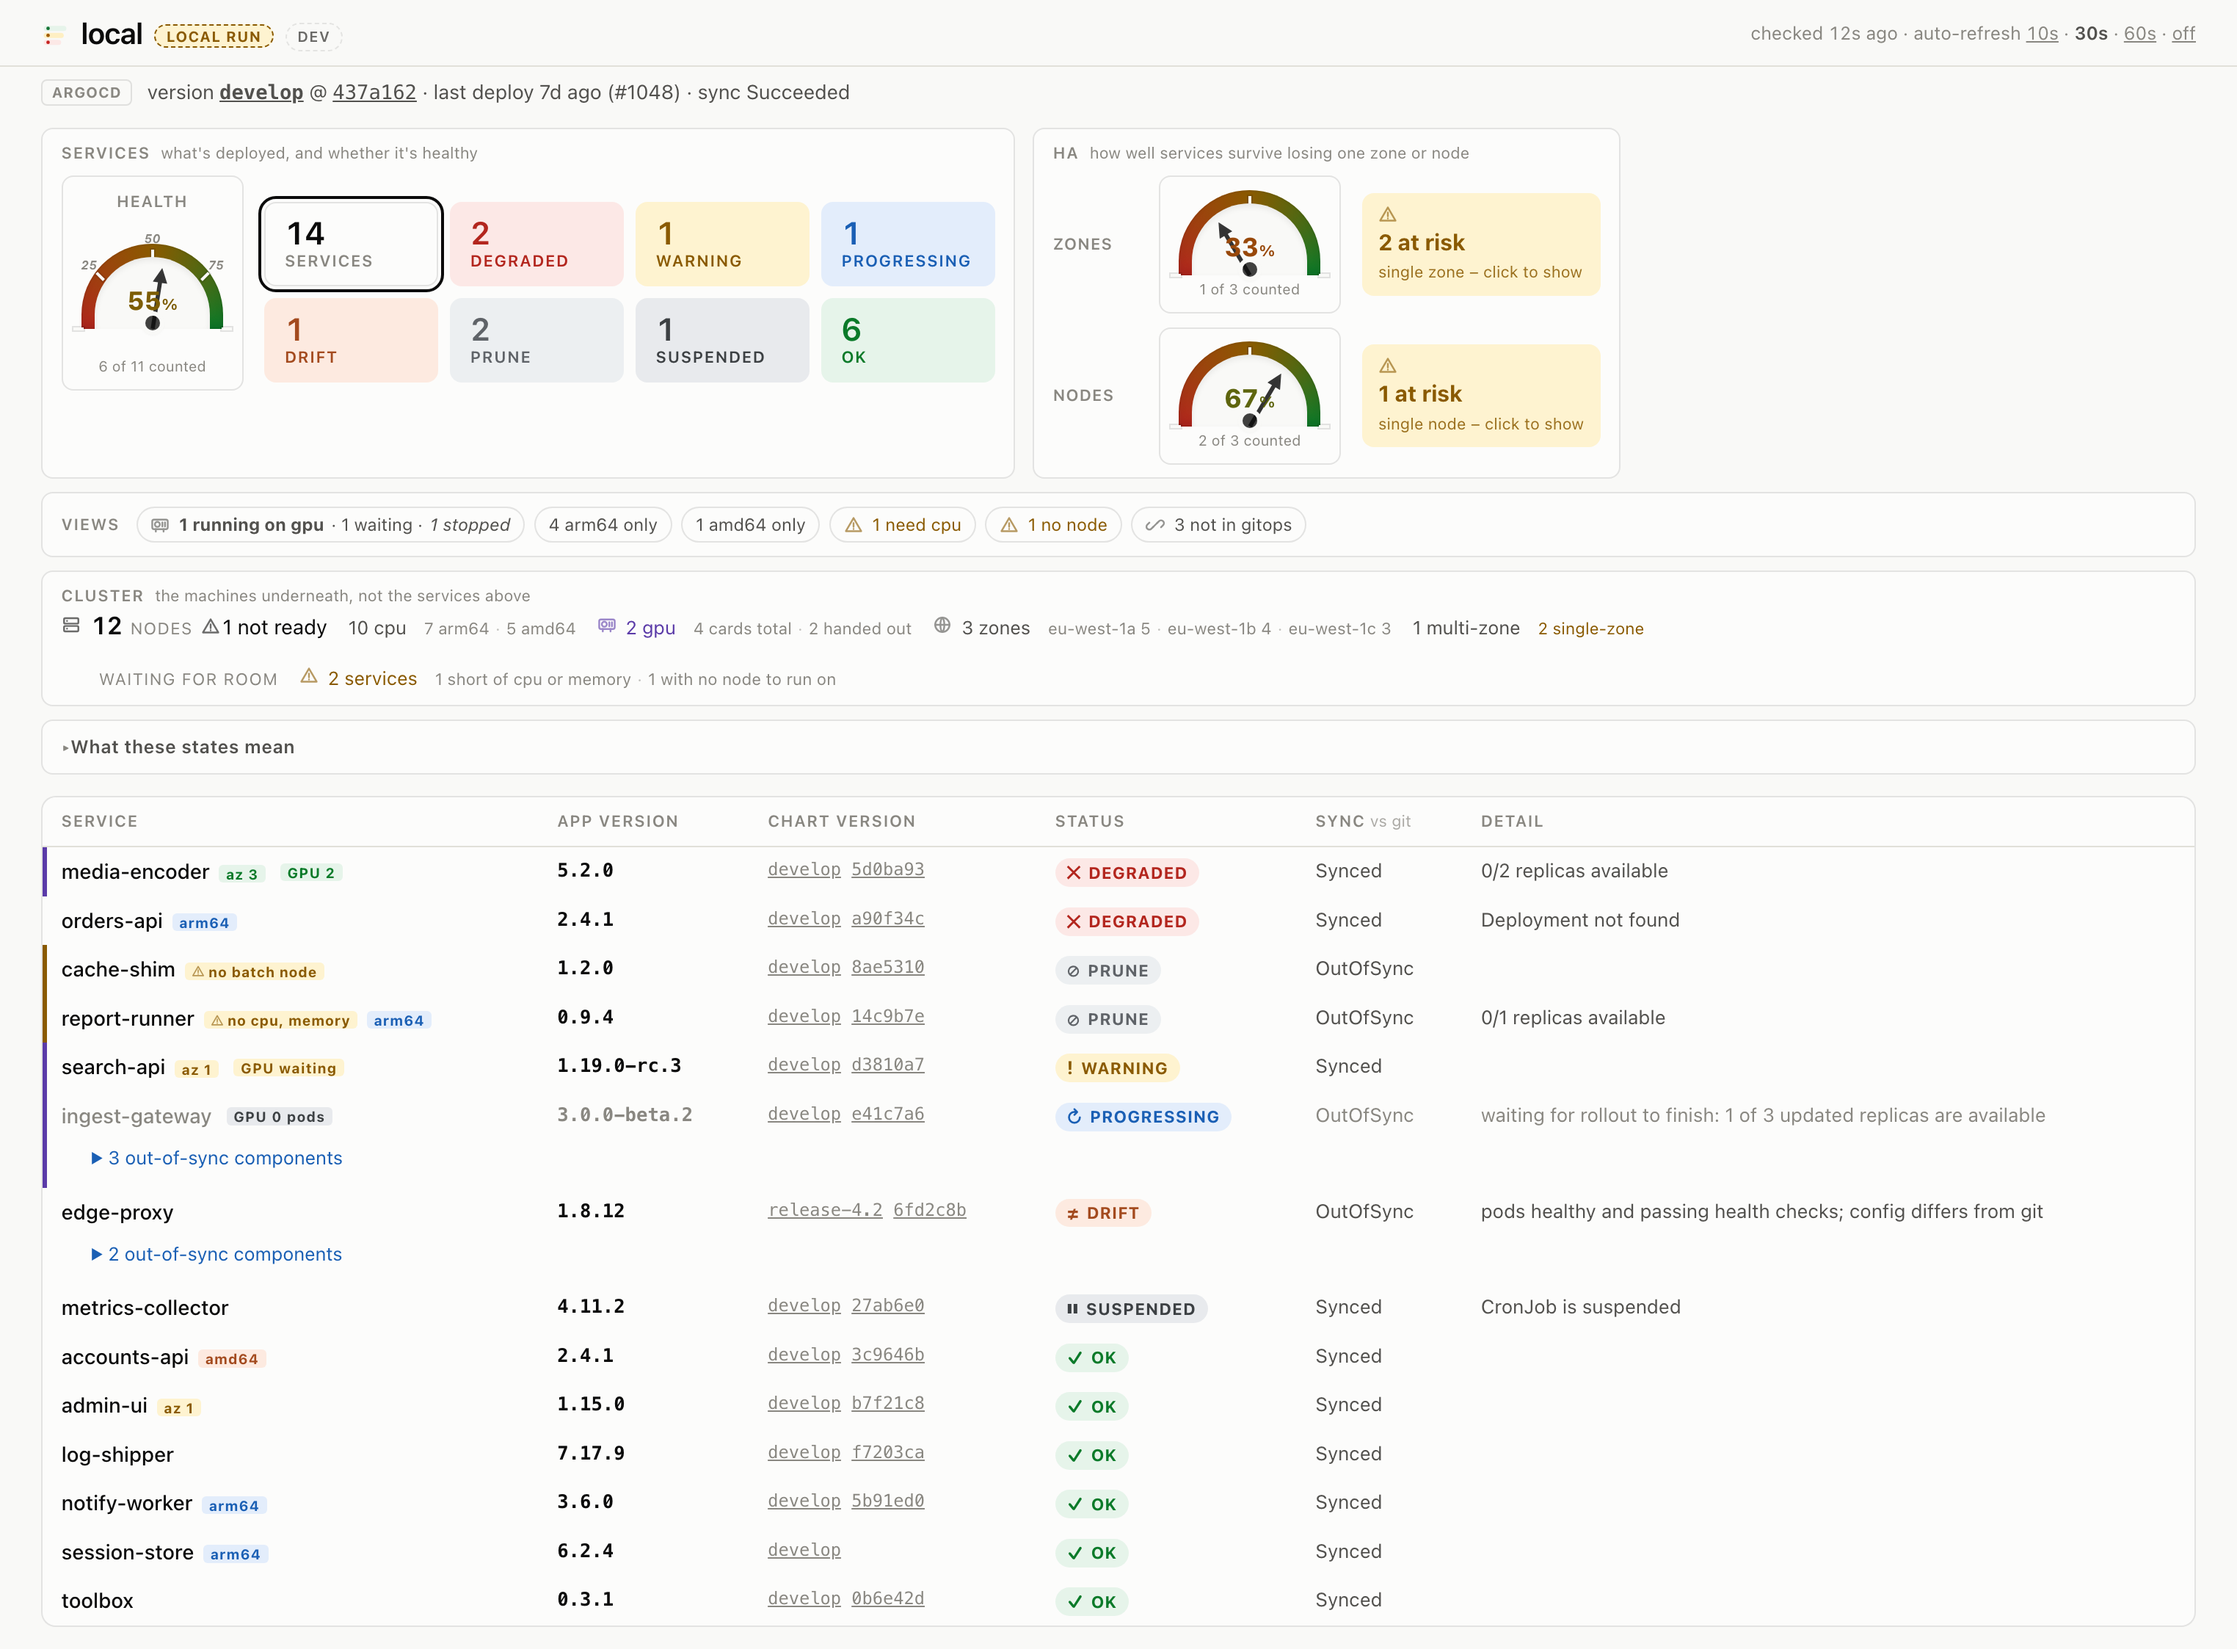
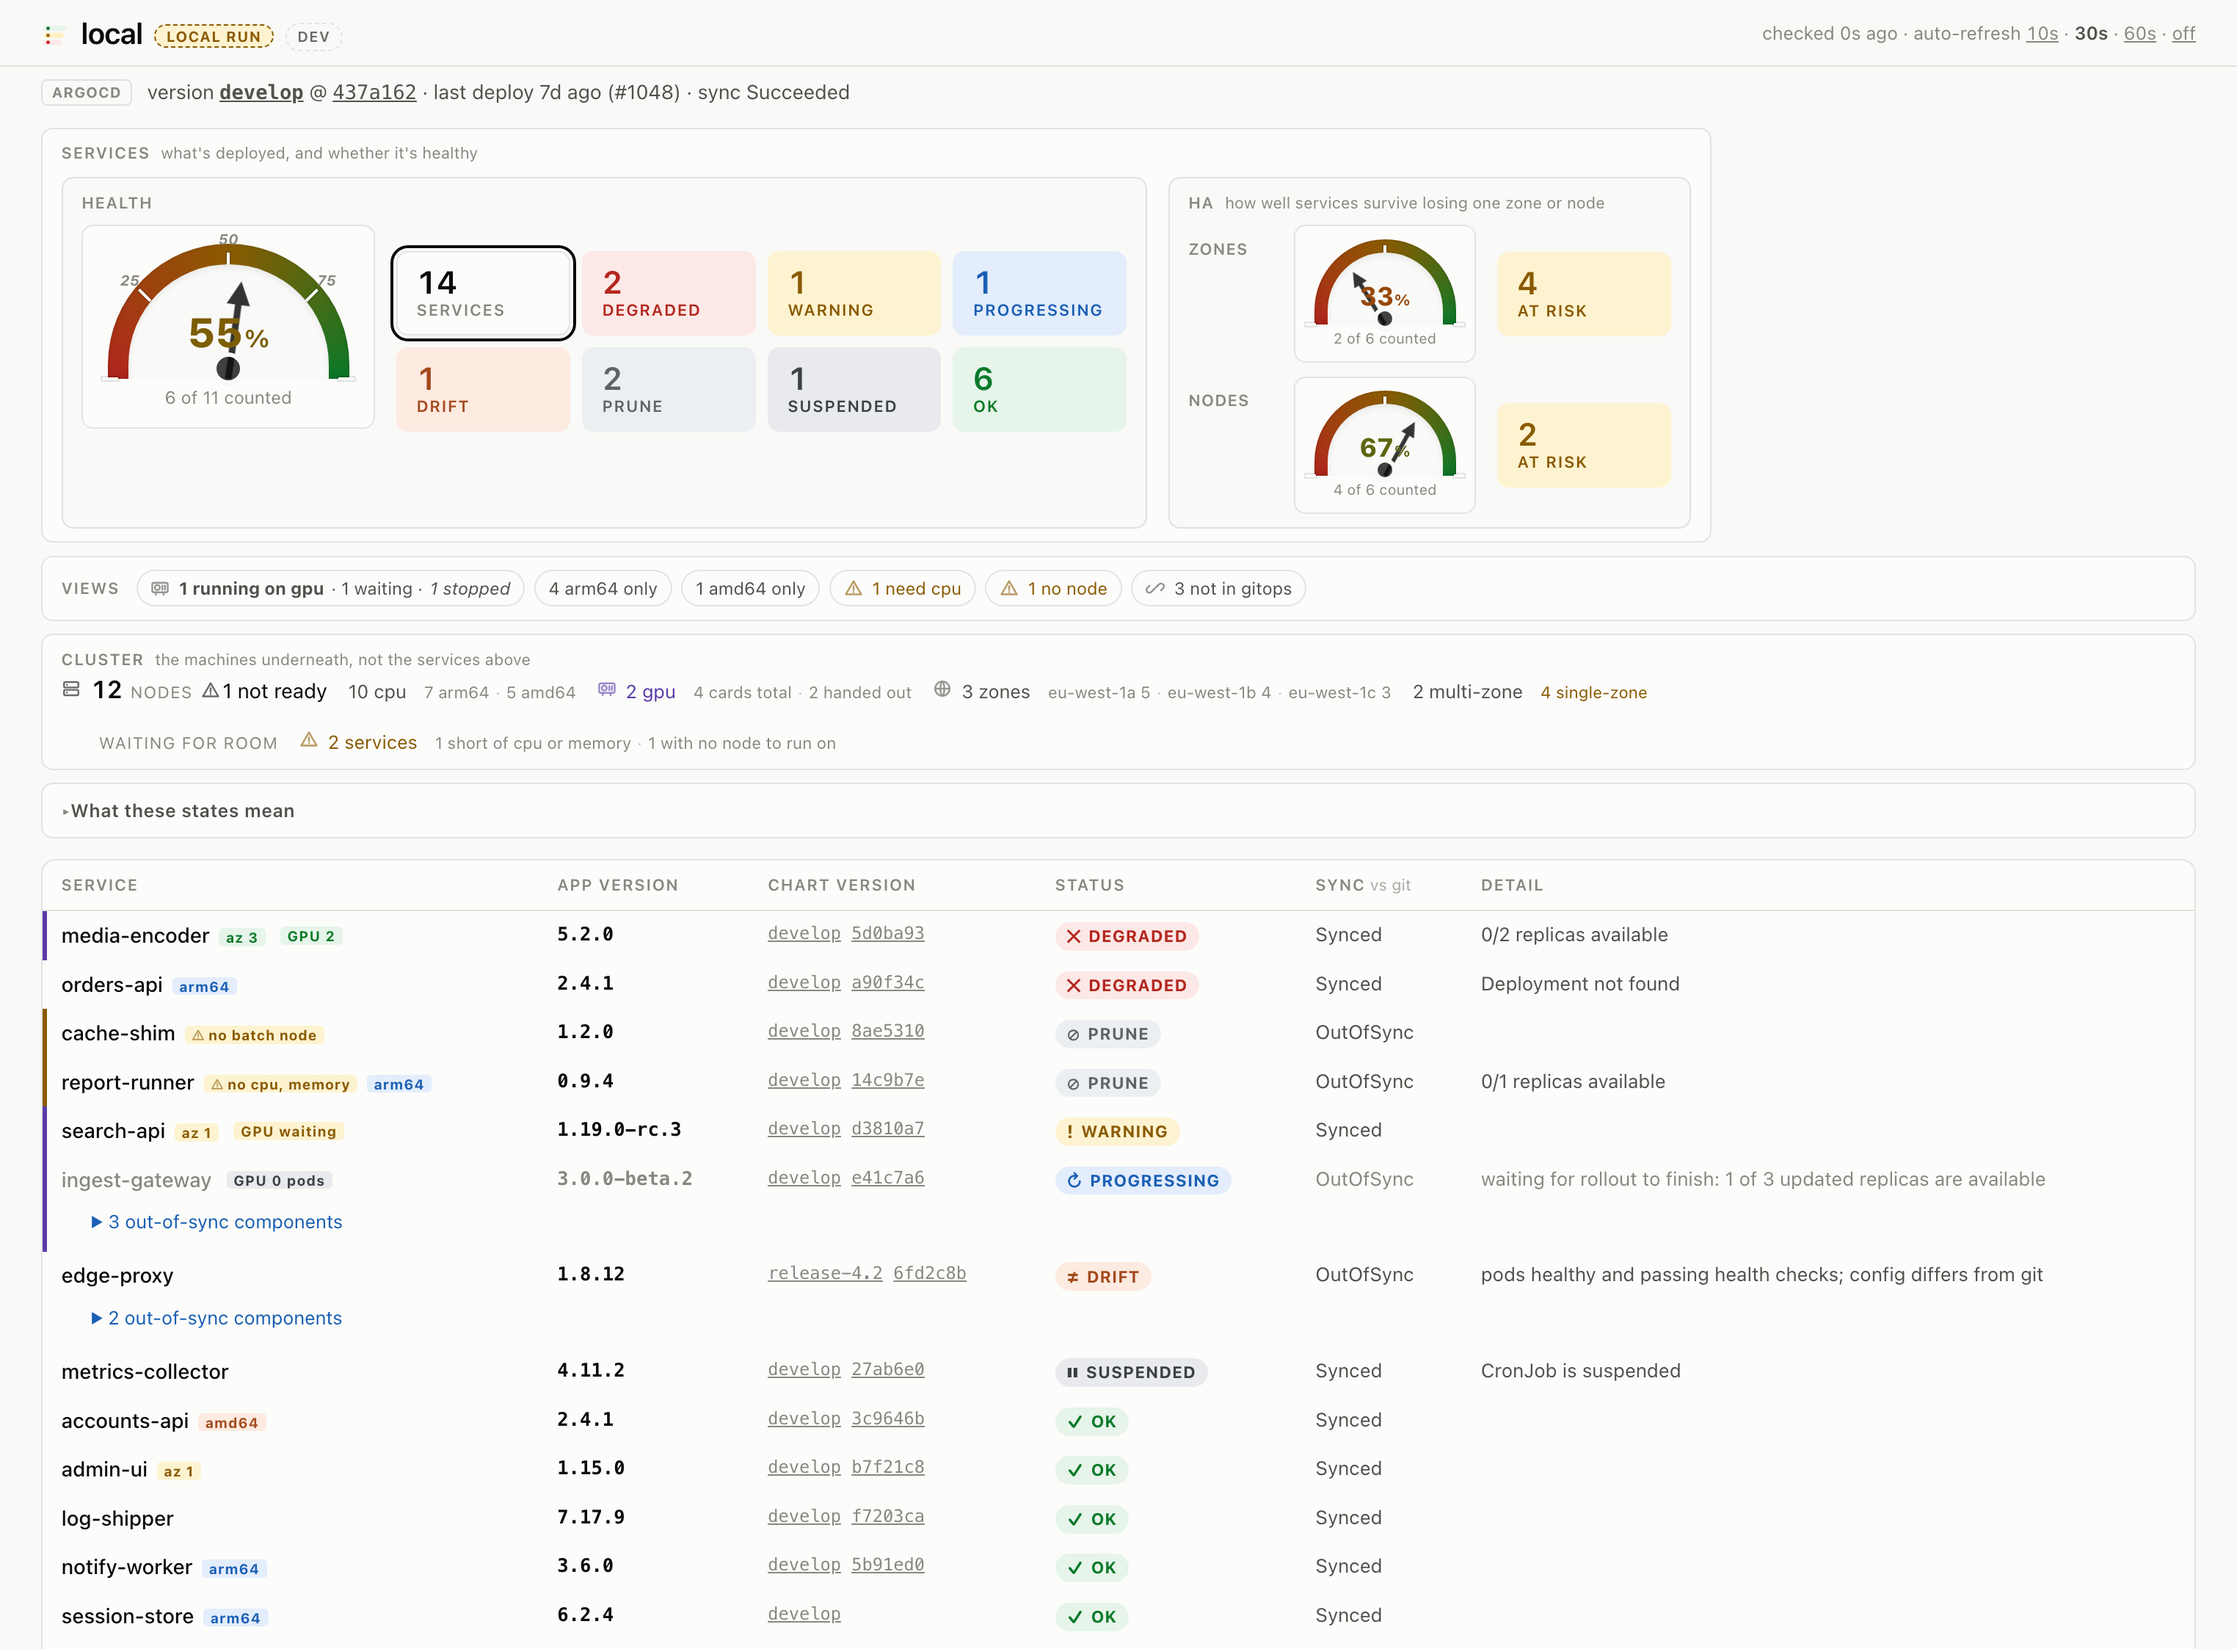
docs: catchier README intro, regenerate screenshots
Lead with a one-line hook above the badges instead of after them;
folded the old tagline's 'and what it doesn't know about' into the
opening paragraph so it isn't said twice. Screenshots regenerated for
this round's UI changes (Health/HA layout, at-risk tiles).

diff --git a/README.md b/README.md
@@ -2,6 +2,8 @@
 
 # k8s-status
 
+**What's actually running in your cluster — and whether Git agrees.**
+
 [![ci](https://github.com/ntmggr/k8s-status/actions/workflows/ci.yml/badge.svg)](https://github.com/ntmggr/k8s-status/actions/workflows/ci.yml)
 [![release](https://img.shields.io/github/v/release/ntmggr/k8s-status?sort=semver&logo=github&label=release)](https://github.com/ntmggr/k8s-status/releases/latest)
 [![Downloads](https://img.shields.io/github/downloads/ntmggr/k8s-status/total?label=downloads)](https://github.com/ntmggr/k8s-status/releases)
@@ -13,12 +15,11 @@
 [![Go](https://img.shields.io/badge/go-1.27-00ADD8?logo=go&logoColor=white)](go.mod)
 [![License](https://img.shields.io/badge/license-Apache%202.0-blue.svg)](LICENSE)
 
-**See what GitOps actually deployed, and what it doesn't know about.**
-
 ## What is this?
 
 One web page that tells you what is running in a Kubernetes cluster, which version of it,
-and whether it is healthy. Read-only: it can list, and nothing else.
+and whether it is healthy. It also shows what your GitOps controller doesn't know
+about: whatever is running outside it. Read-only: it can list, and nothing else.
 
 It reads one cluster and nothing else. It makes no outbound calls. There is no
 JavaScript and no database. You open a URL and read a table.
